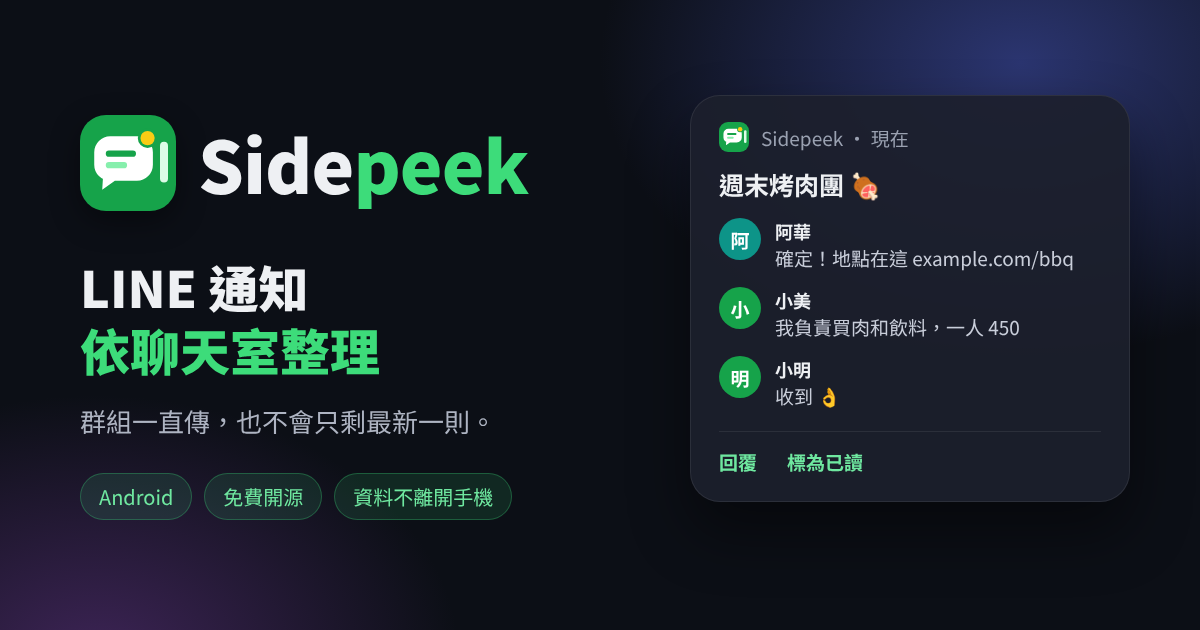
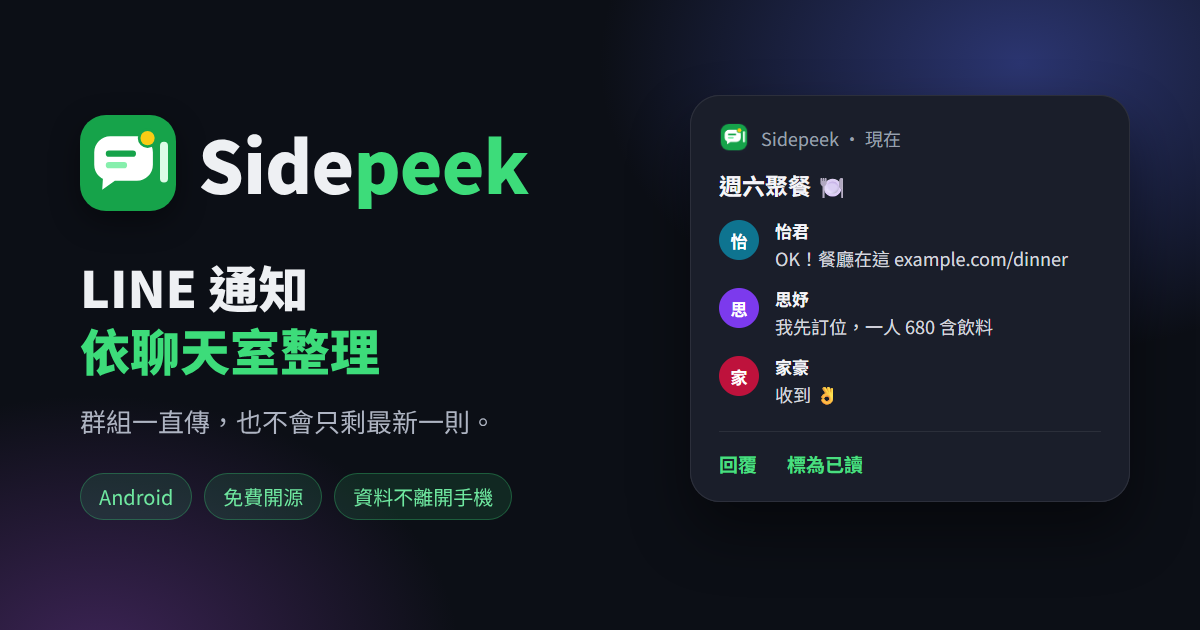
字首色盤改 12 色、測試通知換成兩男兩女
- AvatarBadge：拿掉太接近的兩組顏色（兩個橘、兩個紫），改成 12 個明顯不同、白字都看得清楚的顏色，仍不用綠色。
- 送測試通知改成「測試｜週六聚餐」：家豪、怡君、思妤、宗翰四個人各一種顏色，連結、長訊息、像網址的帳號都還在。
- 網站示意畫面和連結預覽圖 og.png 跟著換成新的名字和顏色。
- HANDOFF：更新 v1.1.0 發版流程說明。

diff --git a/site/index.html b/site/index.html
@@ -256,17 +256,17 @@ footer p { max-width: 34em; }
           <div class="ncard" id="demoCard">
             <div class="nhead">
               <div class="av" style="background:#16a34a">測<span class="bd"></span></div>
-              <div><div class="nmeta">Sidepeek ・ 下午1:22</div><div class="ntitle">測試｜週末烤肉群組</div></div>
+              <div><div class="nmeta">Sidepeek ・ 下午1:22</div><div class="ntitle">測試｜週六聚餐</div></div>
               <div class="chev" id="demoChev"></div>
             </div>
             <div class="nbody" id="demoBody">
-              <div class="ncol" id="demoCol"><b>小明</b><br>收到 👌</div>
+              <div class="ncol" id="demoCol"><b>怡君</b><br>收到 👌</div>
               <div class="nfull" id="demoFull">
-                <div class="nmsg"><div class="av sm" style="background:#16a34a">小</div><div><b>小明</b>週六烤肉確定嗎？</div></div>
-                <div class="nmsg"><div class="av sm" style="background:#0e9f8e">阿</div><div><b>阿華</b>確定！地點在這 <span class="lk">example.com/bbq</span></div></div>
-                <div class="nmsg"><div class="av sm" style="background:#5f9e1a">小</div><div><b>小美</b>我負責買肉和飲料，總共 1,800 元，一人 450</div></div>
-                <div class="nmsg"><div class="av sm" style="background:#0e9f8e">阿</div><div><b>阿華</b>食譜可以參考 <span class="lk">chef.lu.tw</span> 的分享</div></div>
-                <div class="nmsg"><div class="av sm" style="background:#16a34a">小</div><div><b>小明</b>收到 👌</div></div>
+                <div class="nmsg"><div class="av sm" style="background:#BE123C">家</div><div><b>家豪</b>這週六聚餐還 OK 嗎？</div></div>
+                <div class="nmsg"><div class="av sm" style="background:#0E7490">怡</div><div><b>怡君</b>OK！餐廳在這 <span class="lk">example.com/dinner</span></div></div>
+                <div class="nmsg"><div class="av sm" style="background:#7C3AED">思</div><div><b>思妤</b>我先訂位，6 個人、晚上 6 點半，套餐一人 680 含飲料</div></div>
+                <div class="nmsg"><div class="av sm" style="background:#C2410C">宗</div><div><b>宗翰</b>甜點可以參考 IG 上 <span class="lk">cake.daily</span> 的推薦</div></div>
+                <div class="nmsg"><div class="av sm" style="background:#0E7490">怡</div><div><b>怡君</b>收到 👌</div></div>
               </div>
             </div>
           </div>
@@ -304,10 +304,10 @@ footer p { max-width: 34em; }
         <div class="screen">
           <div class="sbar"><span>下午 1:24</span><span>5G ▮▮▮ 96%</span></div>
           <div class="shade-time">下午 1:24<span>10月27日 週二</span></div>
-          <div class="ncard"><div class="nhead"><div class="av" style="background:#16a34a">測<span class="bd"></span></div><div><div class="nmeta">Sidepeek ・ 下午1:22</div><div class="ntitle">測試｜週末烤肉群組</div></div><div class="chev"></div></div><div class="ncol"><b>小明</b><br>收到 👌</div></div>
-          <div class="ncard" style="margin-top:10px"><div class="nhead"><div class="av" style="background:#0e9f8e">阿<span class="bd"></span></div><div><div class="nmeta">Sidepeek ・ 下午1:10</div><div class="ntitle">阿華</div></div><div class="chev"></div></div><div class="ncol">那我先訂位，七點可以嗎？</div></div>
-          <div class="ncard" style="margin-top:10px"><div class="nhead"><div class="av" style="background:#5f9e1a">讀<span class="bd"></span></div><div><div class="nmeta">Sidepeek ・ 上午9:47 ・ 6 則</div><div class="ntitle">讀書會</div></div><div class="chev"></div></div><div class="ncol"><b>小美</b><br>這週讀到第五章喔</div></div>
-          <div class="ncard" style="margin-top:10px"><div class="nhead"><div class="av" style="background:#3f7fd6">公<span class="bd"></span></div><div><div class="nmeta">Sidepeek ・ 上午8:54 ・ 2 則</div><div class="ntitle">社區公告</div></div><div class="chev"></div></div><div class="ncol">本週六上午停水，請提前儲水</div></div>
+          <div class="ncard"><div class="nhead"><div class="av" style="background:#16a34a">測<span class="bd"></span></div><div><div class="nmeta">Sidepeek ・ 下午1:22</div><div class="ntitle">測試｜週六聚餐</div></div><div class="chev"></div></div><div class="ncol"><b>怡君</b><br>收到 👌</div></div>
+          <div class="ncard" style="margin-top:10px"><div class="nhead"><div class="av" style="background:#4F46E5">佳<span class="bd"></span></div><div><div class="nmeta">Sidepeek ・ 下午1:10</div><div class="ntitle">佳慧</div></div><div class="chev"></div></div><div class="ncol">那我先訂位，七點可以嗎？</div></div>
+          <div class="ncard" style="margin-top:10px"><div class="nhead"><div class="av" style="background:#7C3AED">讀<span class="bd"></span></div><div><div class="nmeta">Sidepeek ・ 上午9:47 ・ 6 則</div><div class="ntitle">讀書會</div></div><div class="chev"></div></div><div class="ncol"><b>冠宇</b><br>這週讀到第五章喔</div></div>
+          <div class="ncard" style="margin-top:10px"><div class="nhead"><div class="av" style="background:#A16207">公<span class="bd"></span></div><div><div class="nmeta">Sidepeek ・ 上午8:54 ・ 2 則</div><div class="ntitle">社區公告</div></div><div class="chev"></div></div><div class="ncol">本週六上午停水，請提前儲水</div></div>
         </div>
       </div>
     </div>
@@ -337,10 +337,10 @@ footer p { max-width: 34em; }
           <div class="scrim"></div>
           <div class="panel">
             <div class="ph"><b>最近訊息<small>4</small></b><span>清除</span></div>
-            <div class="pitem" style="transition-delay:.12s"><div class="av sm" style="background:#16a34a">測</div><div style="min-width:0"><div class="tt">測試｜週末烤肉群組 <em style="background:#16a34a">LINE</em><span class="tm">13:22</span></div><div class="bub">收到 👌</div></div></div>
+            <div class="pitem" style="transition-delay:.12s"><div class="av sm" style="background:#16a34a">測</div><div style="min-width:0"><div class="tt">測試｜週六聚餐 <em style="background:#16a34a">LINE</em><span class="tm">13:22</span></div><div class="bub">收到 👌</div></div></div>
             <div class="pitem" style="transition-delay:.2s"><div class="av sm" style="background:#e1306c">a</div><div style="min-width:0"><div class="tt">amy.lu <em style="background:#e1306c">IG</em><span class="tm">13:15</span></div><div class="bub">傳了一則限時動態給你</div></div></div>
             <div class="pitem" style="transition-delay:.28s"><div class="av sm" style="background:#8e8e93">c</div><div style="min-width:0"><div class="tt">chen__.90 <em style="background:#6b6b70">Threads</em><span class="tm">13:02</span></div><div class="bub">說你的回覆讚</div></div></div>
-            <div class="pitem" style="transition-delay:.36s"><div class="av sm" style="background:#0e9f8e">阿</div><div style="min-width:0"><div class="tt">阿華 <em style="background:#16a34a">LINE</em><span class="tm">12:58</span></div><div class="bub">地點在這 <span class="lk" style="color:#8ab4ff">example.com/bbq</span><br><span class="chip">🔗 example.com</span></div></div></div>
+            <div class="pitem" style="transition-delay:.36s"><div class="av sm" style="background:#4F46E5">佳</div><div style="min-width:0"><div class="tt">佳慧 <em style="background:#16a34a">LINE</em><span class="tm">12:58</span></div><div class="bub">餐廳在這 <span class="lk" style="color:#8ab4ff">example.com/dinner</span><br><span class="chip">🔗 example.com</span></div></div></div>
           </div>
           <div class="finger" id="peekFinger"></div>
         </div>

diff --git a/app/src/main/java/app/sidepeek/Notifier.kt b/app/src/main/java/app/sidepeek/Notifier.kt
@@ -628,13 +628,14 @@ object Notifier {
         val now = System.currentTimeMillis() + 5
         // A small group chat that shows off what the app does: several senders, a link button,
         // a user name that only looks like a URL (no button), and a long message shown in full.
-        val title = "測試｜週末烤肉群組"
+        // The four names get four different badge colours (AvatarBadge.colorFor).
+        val title = "測試｜週六聚餐"
         val lines = listOf(
-            "小明" to "週六烤肉確定嗎？",
-            "阿華" to "確定！地點在這 https://example.com/bbq",
-            "小美" to "我負責買肉和飲料，總共 1,800 元，一人 450，晚點我再把轉帳帳號貼上來，記得週五前轉給我喔",
-            "阿華" to "食譜可以參考 chef.lu.tw 的分享",
-            "小明" to "收到 👌",
+            "家豪" to "這週六聚餐還 OK 嗎？",
+            "怡君" to "OK！餐廳在這 https://example.com/dinner",
+            "思妤" to "我先訂位，6 個人、晚上 6 點半，套餐一人 680 含飲料。我先刷卡，大家再轉給我，帳號晚點貼上來，記得週五前喔",
+            "宗翰" to "甜點可以參考 IG 上 cake.daily 的推薦",
+            "怡君" to "收到 👌",
         )
         var last: LineMessage? = null
         lines.forEachIndexed { i, (who, t) ->

diff --git a/app/src/main/java/app/sidepeek/AvatarBadge.kt b/app/src/main/java/app/sidepeek/AvatarBadge.kt
@@ -10,16 +10,20 @@ import android.util.LruCache
 /** Deterministic initial avatars used when a notification names a person but supplies no icon. */
 object AvatarBadge {
     private val palette = intArrayOf(
-        0xFF2563EB.toInt(), // blue
-        0xFF7C3AED.toInt(), // purple
-        0xFFDB2777.toInt(), // pink
-        0xFFEA580C.toInt(), // orange
-        0xFF0891B2.toInt(), // cyan
-        0xFF0F766E.toInt(), // teal
-        0xFF4F46E5.toInt(), // indigo
-        0xFF9333EA.toInt(), // violet
-        0xFFC2410C.toInt(), // amber
+        // 12 clearly different hues, each readable with white text (contrast >= 4.6). No green,
+        // so a badge never looks like the brand colour.
         0xFFBE123C.toInt(), // rose
+        0xFFDB2777.toInt(), // pink
+        0xFFC026D3.toInt(), // magenta
+        0xFF7C3AED.toInt(), // purple
+        0xFF4F46E5.toInt(), // indigo
+        0xFF2563EB.toInt(), // blue
+        0xFF0E7490.toInt(), // cyan
+        0xFF0F766E.toInt(), // teal
+        0xFFA16207.toInt(), // amber
+        0xFFC2410C.toInt(), // orange
+        0xFF78350F.toInt(), // brown
+        0xFF475569.toInt(), // slate
     )
 
     private val cache = object : LruCache<String, Bitmap>(40) {}

diff --git a/HANDOFF.md b/HANDOFF.md
@@ -139,4 +139,4 @@ Android App「Sidepeek」：LINE 通知依聊天室整理（只接管 LINE），
 
 ## 10/29 版號改成 v1.1.0
 - 原本規劃的 v1.0.5 沒有發布，因為新功能和介面改版較多，改名為 **v1.1.0**（versionName 1.1.0，versionCode 仍是 12）。上面標成 v1.0.5 的內容都屬於 v1.1.0。
-- 更新檢查比對 tag 版號，舊版（1.0.3、1.0.4）會直接提示 v1.1.0。發版 tag 用 `v1.1.0`，檔名 `sidepeek-v1.1.0-build12.apk`。
+- 更新檢查比對 tag 版號，舊版（1.0.3、1.0.4）會直接提示 v1.1.0。發版用 Actions → Build APK → Run workflow 填 `1.1.0`，會建 tag `v1.1.0`、檔名 `sidepeek-v1.1.0.apk`，更新說明取自 README 的「
